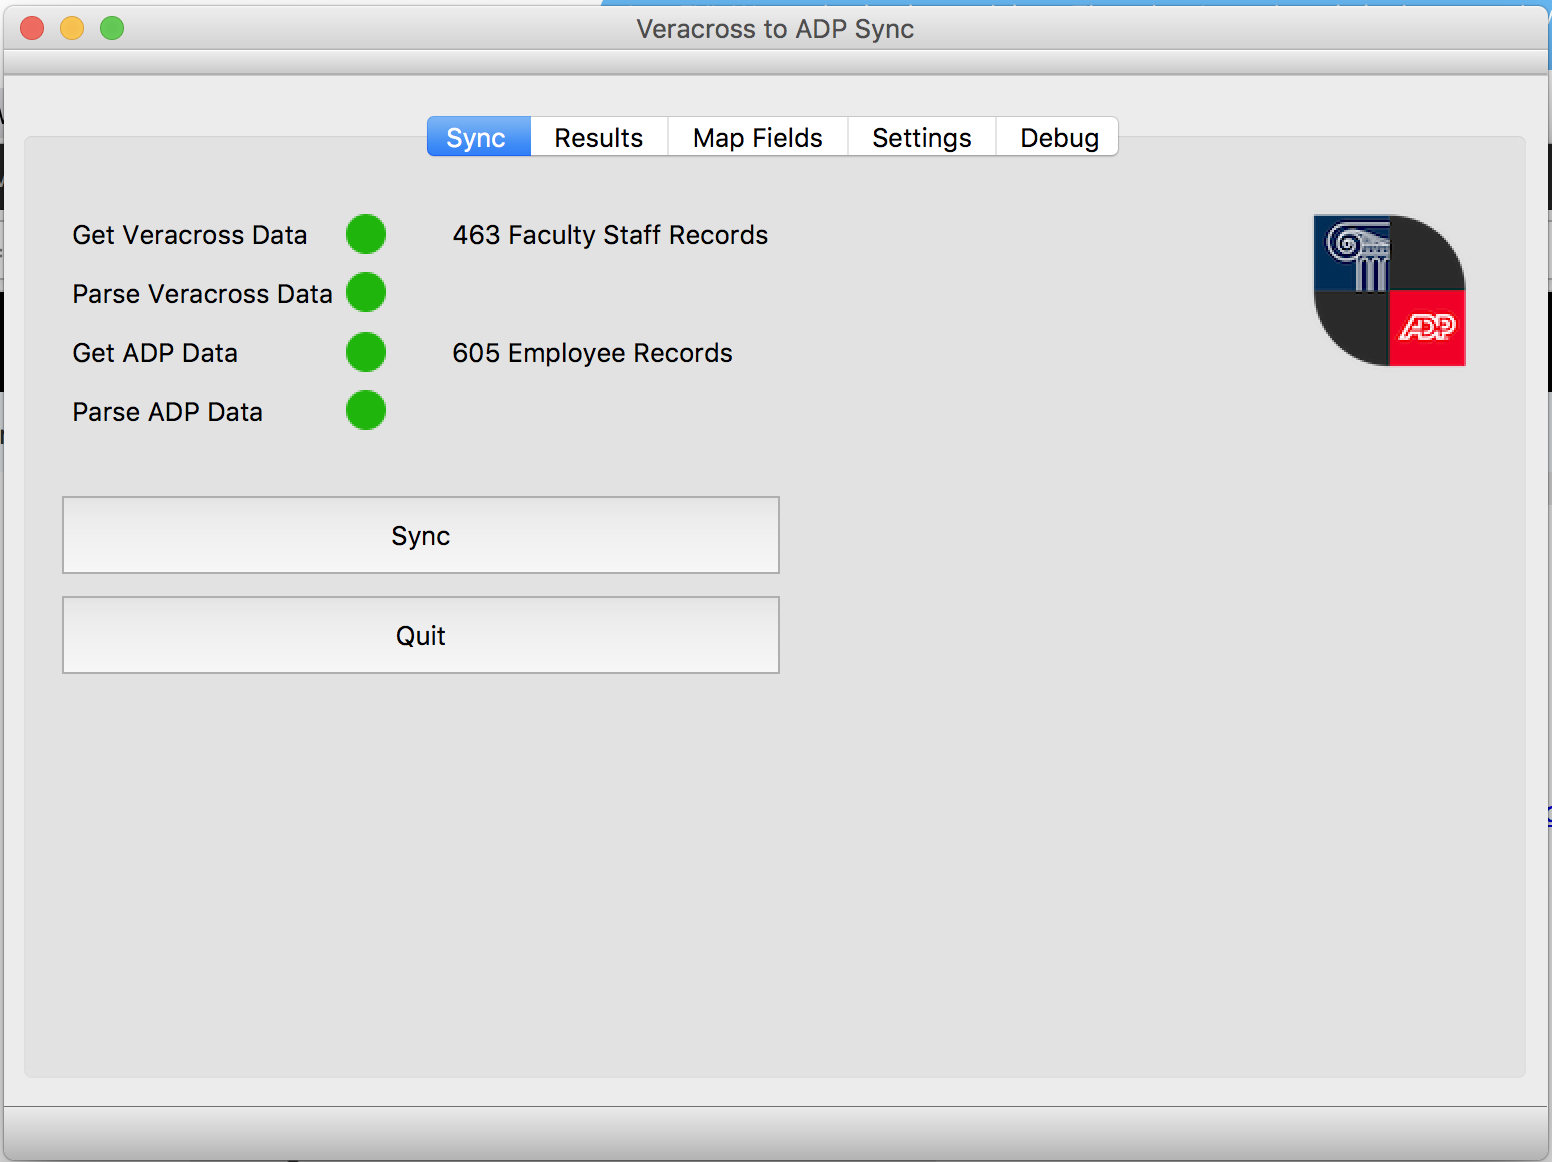
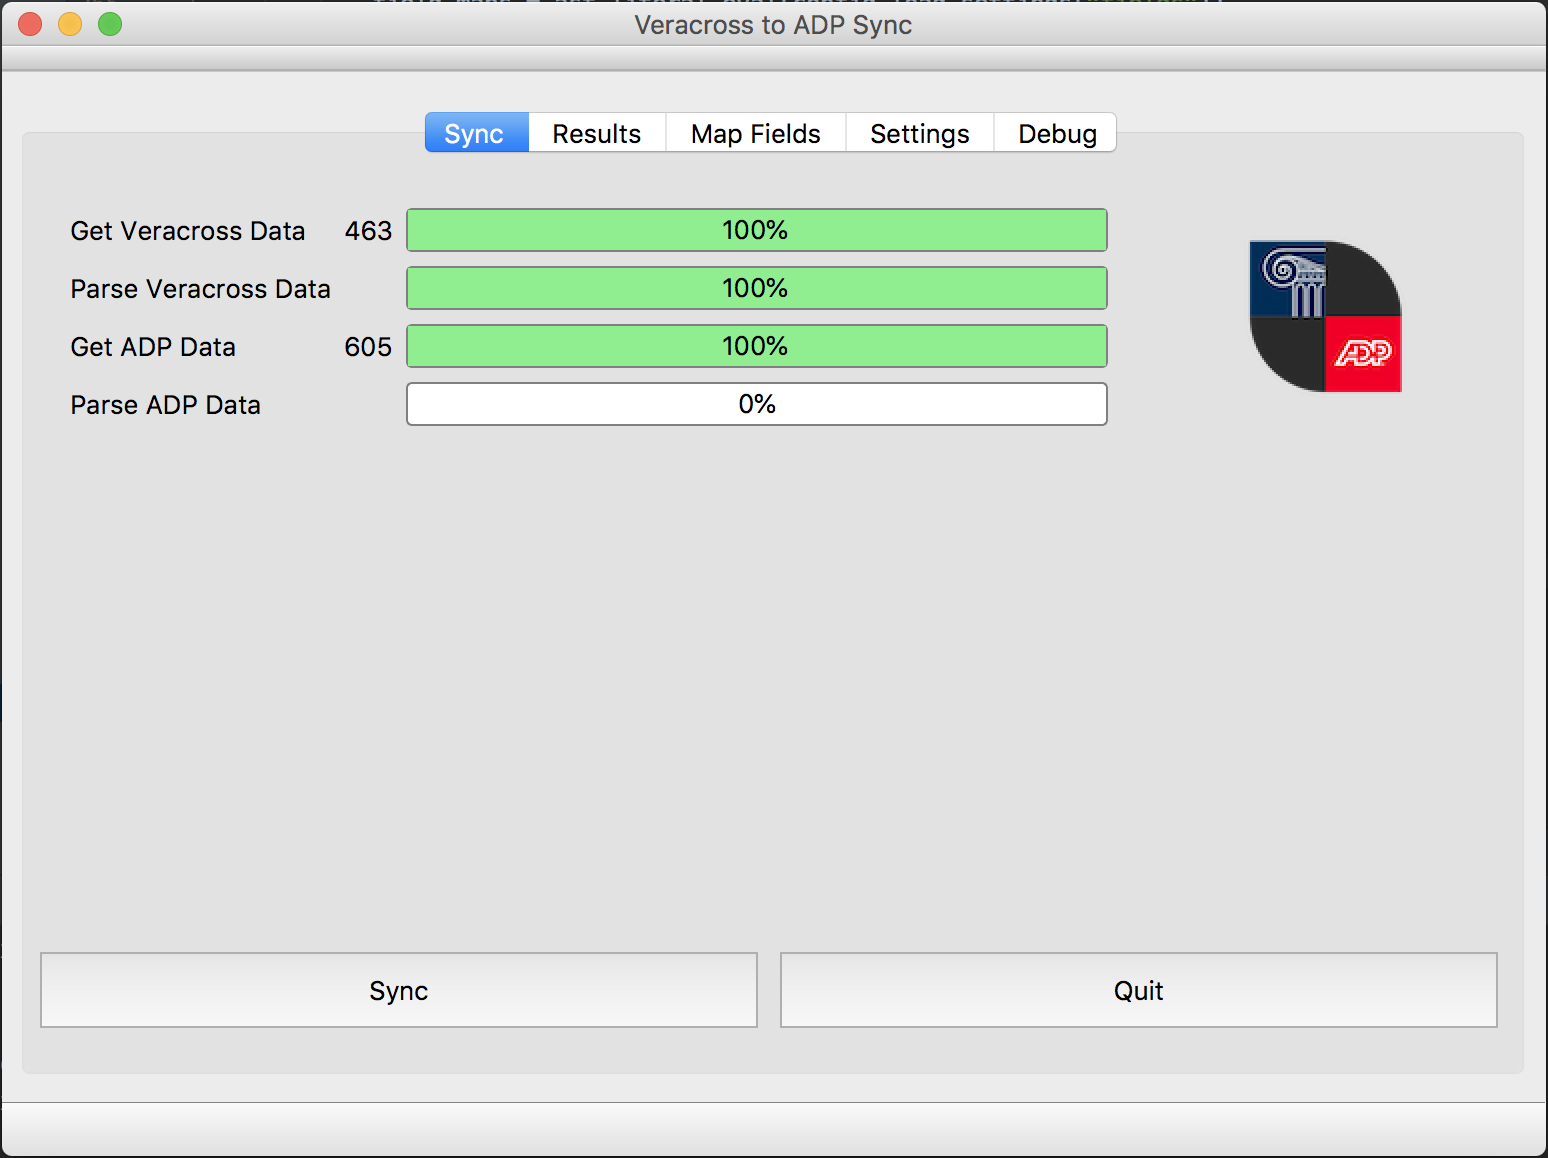
progress on progress bars

diff --git a/mainwindow.py b/mainwindow.py
@@ -20,60 +20,56 @@ class Ui_MainWindow(object):
         self.syncTab = QtWidgets.QWidget()
         self.syncTab.setObjectName("syncTab")
         self.logo_label = QtWidgets.QLabel(self.syncTab)
-        self.logo_label.setGeometry(QtCore.QRect(569, 10, 161, 151))
+        self.logo_label.setGeometry(QtCore.QRect(599, 10, 131, 131))
         self.logo_label.setText("")
         self.logo_label.setObjectName("logo_label")
         self.gridLayoutWidget = QtWidgets.QWidget(self.syncTab)
-        self.gridLayoutWidget.setGeometry(QtCore.QRect(10, 10, 371, 134))
+        self.gridLayoutWidget.setGeometry(QtCore.QRect(10, 10, 541, 134))
         self.gridLayoutWidget.setObjectName("gridLayoutWidget")
         self.gridLayout = QtWidgets.QGridLayout(self.gridLayoutWidget)
         self.gridLayout.setContentsMargins(11, 11, 11, 11)
         self.gridLayout.setSpacing(6)
         self.gridLayout.setObjectName("gridLayout")
-        self.vcDataFSStatusLabel = QtWidgets.QLabel(self.gridLayoutWidget)
-        self.vcDataFSStatusLabel.setText("")
-        self.vcDataFSStatusLabel.setObjectName("vcDataFSStatusLabel")
-        self.gridLayout.addWidget(self.vcDataFSStatusLabel, 0, 1, 1, 1)
-        self.vcParseStatusLabel = QtWidgets.QLabel(self.gridLayoutWidget)
-        self.vcParseStatusLabel.setText("")
-        self.vcParseStatusLabel.setObjectName("vcParseStatusLabel")
-        self.gridLayout.addWidget(self.vcParseStatusLabel, 1, 1, 1, 1)
         self.vcFSRecordCount = QtWidgets.QLabel(self.gridLayoutWidget)
         self.vcFSRecordCount.setObjectName("vcFSRecordCount")
-        self.gridLayout.addWidget(self.vcFSRecordCount, 0, 2, 1, 1)
-        self.adpDataFSStatusLabel = QtWidgets.QLabel(self.gridLayoutWidget)
-        self.adpDataFSStatusLabel.setText("")
-        self.adpDataFSStatusLabel.setObjectName("adpDataFSStatusLabel")
-        self.gridLayout.addWidget(self.adpDataFSStatusLabel, 2, 1, 1, 1)
-        self.adpRecordCount = QtWidgets.QLabel(self.gridLayoutWidget)
-        self.adpRecordCount.setObjectName("adpRecordCount")
-        self.gridLayout.addWidget(self.adpRecordCount, 2, 2, 1, 1)
-        self.adpParseStatusLabel = QtWidgets.QLabel(self.gridLayoutWidget)
-        self.adpParseStatusLabel.setText("")
-        self.adpParseStatusLabel.setObjectName("adpParseStatusLabel")
-        self.gridLayout.addWidget(self.adpParseStatusLabel, 3, 1, 1, 1)
-        self.label_4 = QtWidgets.QLabel(self.gridLayoutWidget)
-        self.label_4.setObjectName("label_4")
-        self.gridLayout.addWidget(self.label_4, 0, 0, 1, 1)
-        self.label_5 = QtWidgets.QLabel(self.gridLayoutWidget)
-        self.label_5.setObjectName("label_5")
-        self.gridLayout.addWidget(self.label_5, 1, 0, 1, 1)
-        self.label_6 = QtWidgets.QLabel(self.gridLayoutWidget)
-        self.label_6.setObjectName("label_6")
-        self.gridLayout.addWidget(self.label_6, 2, 0, 1, 1)
+        self.gridLayout.addWidget(self.vcFSRecordCount, 0, 1, 1, 1)
         self.label_7 = QtWidgets.QLabel(self.gridLayoutWidget)
         self.label_7.setObjectName("label_7")
         self.gridLayout.addWidget(self.label_7, 3, 0, 1, 1)
+        self.label_6 = QtWidgets.QLabel(self.gridLayoutWidget)
+        self.label_6.setObjectName("label_6")
+        self.gridLayout.addWidget(self.label_6, 2, 0, 1, 1)
+        self.label_5 = QtWidgets.QLabel(self.gridLayoutWidget)
+        self.label_5.setObjectName("label_5")
+        self.gridLayout.addWidget(self.label_5, 1, 0, 1, 1)
+        self.label_4 = QtWidgets.QLabel(self.gridLayoutWidget)
+        self.label_4.setObjectName("label_4")
+        self.gridLayout.addWidget(self.label_4, 0, 0, 1, 1)
+        self.progressBarGetVCData = QtWidgets.QProgressBar(self.gridLayoutWidget)
+        self.progressBarGetVCData.setProperty("value", 24)
+        self.progressBarGetVCData.setObjectName("progressBarGetVCData")
+        self.gridLayout.addWidget(self.progressBarGetVCData, 0, 2, 1, 1)
+        self.adpRecordCount = QtWidgets.QLabel(self.gridLayoutWidget)
+        self.adpRecordCount.setObjectName("adpRecordCount")
+        self.gridLayout.addWidget(self.adpRecordCount, 2, 1, 1, 1)
+        self.progressBarParseVCData = QtWidgets.QProgressBar(self.gridLayoutWidget)
+        self.progressBarParseVCData.setProperty("value", 24)
+        self.progressBarParseVCData.setObjectName("progressBarParseVCData")
+        self.gridLayout.addWidget(self.progressBarParseVCData, 1, 2, 1, 1)
+        self.progressBarGetADPData = QtWidgets.QProgressBar(self.gridLayoutWidget)
+        self.progressBarGetADPData.setProperty("value", 24)
+        self.progressBarGetADPData.setObjectName("progressBarGetADPData")
+        self.gridLayout.addWidget(self.progressBarGetADPData, 2, 2, 1, 1)
+        self.progressBarParseADPData = QtWidgets.QProgressBar(self.gridLayoutWidget)
+        self.progressBarParseADPData.setProperty("value", 24)
+        self.progressBarParseADPData.setObjectName("progressBarParseADPData")
+        self.gridLayout.addWidget(self.progressBarParseADPData, 3, 2, 1, 1)
         self.btn_sync = QtWidgets.QPushButton(self.syncTab)
-        self.btn_sync.setGeometry(QtCore.QRect(10, 160, 371, 51))
+        self.btn_sync.setGeometry(QtCore.QRect(0, 390, 371, 50))
         self.btn_sync.setObjectName("btn_sync")
         self.btn_quit = QtWidgets.QPushButton(self.syncTab)
-        self.btn_quit.setGeometry(QtCore.QRect(10, 210, 371, 51))
+        self.btn_quit.setGeometry(QtCore.QRect(370, 390, 371, 50))
         self.btn_quit.setObjectName("btn_quit")
-        self.syncProgressBar = QtWidgets.QProgressBar(self.syncTab)
-        self.syncProgressBar.setGeometry(QtCore.QRect(20, 400, 711, 23))
-        self.syncProgressBar.setProperty("value", 24)
-        self.syncProgressBar.setObjectName("syncProgressBar")
         self.tabs.addTab(self.syncTab, "")
         self.resultsTab = QtWidgets.QWidget()
         self.resultsTab.setObjectName("resultsTab")
@@ -198,7 +194,7 @@ class Ui_MainWindow(object):
         self.lbl_Log.setGeometry(QtCore.QRect(10, 240, 60, 16))
         self.lbl_Log.setObjectName("lbl_Log")
         self.gridLayoutWidget_2 = QtWidgets.QWidget(self.debugTab)
-        self.gridLayoutWidget_2.setGeometry(QtCore.QRect(10, 10, 476, 191))
+        self.gridLayoutWidget_2.setGeometry(QtCore.QRect(10, 10, 511, 191))
         self.gridLayoutWidget_2.setObjectName("gridLayoutWidget_2")
         self.gridLayout_2 = QtWidgets.QGridLayout(self.gridLayoutWidget_2)
         self.gridLayout_2.setContentsMargins(11, 11, 11, 11)
@@ -276,12 +272,12 @@ class Ui_MainWindow(object):
     def retranslateUi(self, MainWindow):
         _translate = QtCore.QCoreApplication.translate
         MainWindow.setWindowTitle(_translate("MainWindow", "Veracross to ADP Sync"))
-        self.vcFSRecordCount.setText(_translate("MainWindow", "0 Faculty Staff Records"))
-        self.adpRecordCount.setText(_translate("MainWindow", "0 Employee Records"))
-        self.label_4.setText(_translate("MainWindow", "Get Veracross Data"))
-        self.label_5.setText(_translate("MainWindow", "Parse Veracross Data"))
-        self.label_6.setText(_translate("MainWindow", "Get ADP Data"))
+        self.vcFSRecordCount.setText(_translate("MainWindow", "000000"))
         self.label_7.setText(_translate("MainWindow", "Parse ADP Data"))
+        self.label_6.setText(_translate("MainWindow", "Get ADP Data"))
+        self.label_5.setText(_translate("MainWindow", "Parse Veracross Data"))
+        self.label_4.setText(_translate("MainWindow", "Get Veracross Data"))
+        self.adpRecordCount.setText(_translate("MainWindow", "000000"))
         self.btn_sync.setText(_translate("MainWindow", "Sync"))
         self.btn_quit.setText(_translate("MainWindow", "Quit"))
         self.tabs.setTabText(self.tabs.indexOf(self.syncTab), _translate("MainWindow", "Sync"))

diff --git a/main.py b/main.py
@@ -5,6 +5,7 @@ import images
 import veracross_api as v
 import adp_api as adp
 import config
+import time
 import json
 import ast
 
@@ -38,12 +39,30 @@ class Main(QtWidgets.QMainWindow):
         # Ensure Sync Tab is active
         self.ui.tabs.setCurrentIndex(0)
 
+        # Progress Bar Style
+        progress_style = """
+                QProgressBar {
+                    border: 1px solid grey;
+                    border-radius: 3px;
+                    text-align: center;
+                }
+
+                QProgressBar::chunk {
+                    background-color: lightgreen;
+                    width: 5px;
+                }"""
+        self.ui.progressBarGetADPData.setStyleSheet(progress_style)
+        self.ui.progressBarGetVCData.setStyleSheet(progress_style)
+        self.ui.progressBarParseADPData.setStyleSheet(progress_style)
+        self.ui.progressBarParseVCData.setStyleSheet(progress_style)
+
+        self.ui.progressBarParseVCData.setValue(0)
+        self.ui.progressBarParseADPData.setValue(0)
+        self.ui.progressBarGetVCData.setValue(0)
+        self.ui.progressBarGetADPData.setValue(0)
+
         # Set Images
         self.ui.logo_label.setPixmap(QtGui.QPixmap(":/images/adp-vc-logo-100.png"))
-        self.ui.vcDataFSStatusLabel.setPixmap(QtGui.QPixmap(":/images/red_status.png"))
-        self.ui.vcParseStatusLabel.setPixmap(QtGui.QPixmap(":/images/red_status.png"))
-        self.ui.adpDataFSStatusLabel.setPixmap(QtGui.QPixmap(":/images/red_status.png"))
-        self.ui.adpParseStatusLabel.setPixmap(QtGui.QPixmap(":/images/red_status.png"))
 
         # Gather Config
         self.c = config.load_settings("config")
@@ -131,11 +150,14 @@ class Main(QtWidgets.QMainWindow):
             self.vcfsdata = self.vc.pull("facstaff")
 
             if len(self.vcfsdata) > 0:
-                self.ui.vcFSRecordCount.setText(str(len(self.vcfsdata)) + " Faculty Staff Records")
-                self.ui.vcDataFSStatusLabel.setPixmap(QtGui.QPixmap(":/images/green_status.png"))
+                self.ui.vcFSRecordCount.setText(str(len(self.vcfsdata)))
                 self.ui.lineEditXRateLimitReading.setText(str(self.vc.rate_limit_remaining))
                 self.ui.lineEditXRateLimitResetReading.setText(str(self.vc.rate_limit_reset))
                 self.debug_append_log("Found " + str(len(self.vcfsdata)) + " faculty staff records in VC.")
+                # Progress Bar
+                # Sleep to fix bug in QT Painter
+                time.sleep(1)
+                self.ui.progressBarGetVCData.setValue(100)
                 # Enable next step
                 self.ui.parseVCDataButton.setEnabled(True)
         except:
@@ -154,7 +176,6 @@ class Main(QtWidgets.QMainWindow):
         Parse Veracross Action
         :return:
         """
-
         # Get field maps from the field maps textBrowser.
         try:
             field_maps = ast.literal_eval(config.load_settings("fields"))
@@ -163,6 +184,8 @@ class Main(QtWidgets.QMainWindow):
             return None
 
         d = {}
+        increment = 100 / len(self.vcfsdata)
+        progress = increment
         for i in self.vcfsdata:
             h = v.Veracross(self.c)
 
@@ -181,17 +204,19 @@ class Main(QtWidgets.QMainWindow):
                         a.update({fh: str(hh["household"][fh])})
 
             d.update({int(i["person_pk"]): a})
+            progress = progress + increment
+
+            # Update UI with rate limits
+            self.ui.lineEditXRateLimitReading.setText(str(h.rate_limit_remaining))
+            self.ui.lineEditXRateLimitResetReading.setText(str(h.rate_limit_reset))
+            self.ui.progressBarParseVCData.setValue(int(progress))
             del hh, h
 
         if len(d) > 0:
             # Store parsed data in self
             self.vc_parsed_data = d
 
-            # Notify the interface
-            self.ui.lineEditXRateLimitReading.setText(str(self.vc.rate_limit_remaining))
-            self.ui.lineEditXRateLimitResetReading.setText(str(self.vc.rate_limit_reset))
             self.debug_append_log("Veracross data parse complete.")
-            self.ui.vcParseStatusLabel.setPixmap(QtGui.QPixmap(":/images/green_status.png"))
             self.ui.vcResultsTextEdit.setText(str(d))
 
             # Enable next step
@@ -210,9 +235,12 @@ class Main(QtWidgets.QMainWindow):
             a = adp.Adp(self.c)
             self.adpfsdata = a.workers()
             if len(self.adpfsdata) > 0:
-                self.ui.adpRecordCount.setText(str(len(self.adpfsdata)) + " Employee Records")
-                self.ui.adpDataFSStatusLabel.setPixmap(QtGui.QPixmap(":/images/green_status.png"))
+                self.ui.adpRecordCount.setText(str(len(self.adpfsdata)))
                 self.debug_append_log("Found " + str(len(self.adpfsdata)) + " employee records in ADP.")
+                # Progress Bar
+                # Sleep for Qt Bug
+                time.sleep(1)
+                self.ui.progressBarGetADPData.setValue(100)
                 # Enable next step
                 self.ui.btn_parseADPData.setEnabled(True)
         except:
@@ -238,7 +266,8 @@ class Main(QtWidgets.QMainWindow):
         except:
             self.warn_user("Invalid Field Maps! Check README for more information.")
             return None
-
+        increment = 100 / len(self.adpfsdata)
+        progress = increment
         for i in self.adpfsdata:
             a = {}
             # Get VC ID from field set in settings
@@ -252,13 +281,17 @@ class Main(QtWidgets.QMainWindow):
                     a.update({f: self.get_nested_dict(i, str(field_maps[f]))})
                 d.update({int(vcid): a})
 
+            # Update progress bar
+            progress = progress + increment
+            self.ui.progressBarParseADPData.setValue(int(progress))
+
         if len(d) > 0:
             # Store parsed data in self
             self.adp_parsed_data = d
 
             # Notify the interface
-            self.ui.adpParseStatusLabel.setPixmap(QtGui.QPixmap(":/images/green_status.png"))
             self.ui.adpResultsTextEdit.setText(str(d))
+            self.debug_append_log("ADP data parse complete.")
 
     def sync_data(self):
 
